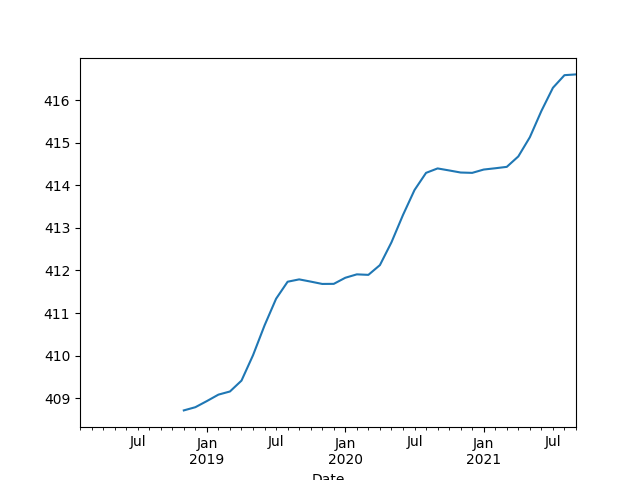
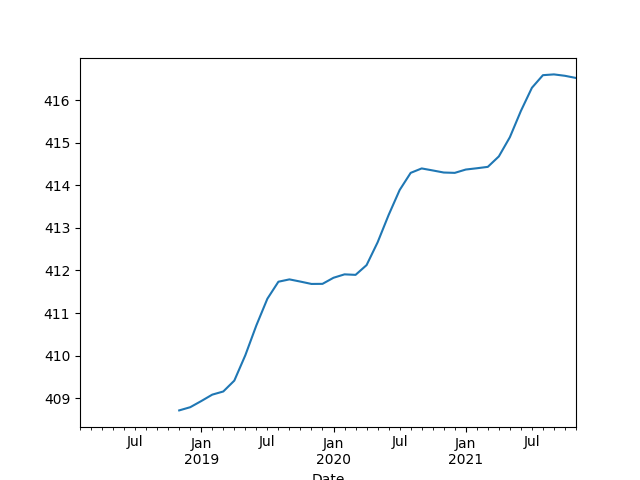
-

diff --git a/en/README.md b/en/README.md
@@ -1,39 +1,103 @@
 <img src="https://drive.google.com/uc?export=view&id=1B2wf9R7AMH1d7Vw6e2mucLbIQ5NSjir7"/>
 
+Energy *can* become a non-issue. It can be done.
 
-<iframe width="340" src="https://www.youtube.com/embed/xs4ypRAPc-c" title="YouTube video player" frameborder="0" allow="accelerometer; autoplay; clipboard-write; encrypted-media; gyroscope; picture-in-picture" allowfullscreen></iframe>
+"Hydrogen has always been the answer to our energy needs. However, the
+configuration of global politics post WW1, which was won by oil and
+coal supremacy, was always going to be a tough nut to crack...
 
----
-
-I'd replace AI with crude intelligence, automation, ML in the title, rest is fine
-
-<iframe width="340" src="https://www.youtube.com/embed/lXuQKoQCtOc" title="YouTube video player" frameborder="0" allow="accelerometer; autoplay; clipboard-write; encrypted-media; gyroscope; picture-in-picture" allowfullscreen></iframe>
-
----
-
-"@SDonziger
-
-BREAKING: Danbury prison officials released me this morning to serve
-the rest of my sentence (136 days) at home. Huge step forward"
+With hydrogen, we can now take energy “off the table” as a source of
+so many historic ills, and we can do it far more rapidly than has been
+suggested"
 
 ---
 
-"@greg_price11
-
-I was just on my way to Subway and was confronted by two men holding
-chocolate chocolate chip ice cream cones. They recognized me from
-Twitter, punched me in the face, and said "this is Build Back Better
-country."
-
-I'm crying and vomiting everywhere"
+H2 View: "Australia has started trials for a hydrogen *Guarantee of
+Origin* scheme that aims to add value for all types of hydrogen with
+specification on how the hydrogen was sourced to allow customers to
+know how clean it is"
 
 ---
 
-"@eikeklapper
+H2 View: "Australia has seen significant progress within its hydrogen
+sector and has now been recognised as a ‘world leader’ in hydrogen
+technologies in the State of Hydrogen report...
 
-Transition of power. German style"
+This expansion of the hydrogen sector will continue to expand with the
+Government launching significant funding opportunities for the sector
+[as seen in] the $464m Clean Hydrogen Industrial Hubs programme that
+has already seen benefits with hubs being announced across the nation"
 
-[[-]](https://twitter.com/eikeklapper/status/1469315734786527232)
+[[-]](https://www.h2-view.com/story/australia-recognised-as-world-leader-in-clean-and-affordable-hydrogen-production-says-report)
+
+---
+
+H2 View: "Sweden receives unique investment to develop a 24-station
+strong hydrogen refuelling structure by 2025"
+
+---
+
+November atmo carbon levels - 0.45% YoY increase. Average increase for
+every month since the 60s has been 0.44%. On track toward hell.
+
+[[-]](2015/08/temp-increase.md#carbonyoy)
+
+---
+
+"@tcql
+
+Looking at benefits for potential next job and I still just cannot
+fathom anybody who would fight to keep the US healthcare
+system. Insurance is a fucking nightmare and is *designed* at every
+turn to frustrate, confuse, and deny help"
+
+---
+
+"@latimes
+
+Leaked hospital records reveal huge, automated markups for healthcare
+A former nurse at Scripps Memorial Hospital showed columnist David
+Lazarus screenshots of the facility’s electronic health record
+system. The screenshots show price hikes ranging from 575% to 675%
+being automatically generated by the hospital’s software"
+
+[[-]](https://twitter.com/i/events/1469421433021419525)
+
+---
+
+Nov Inflation
+
+```
+2021-11-01  6.809003
+```
+
+---
+
+Never Tango with an Eskimo. That is a song.
+
+---
+
+I see.. Iglos have good insulation, the rest is body heat. That's it.
+
+They are not a problem. 
+
+---
+
+How do the Eskimo get heating..?
+
+---
+
+Yep. Confirms an earlier obs, this fact jumps out at you looking at
+the emission graph. Heating is the worst polluter, first bcz of its
+energy requirements (which are not 100% green) and through unorthodox
+methods of generating heat IMO in the developing world.. I cant blame
+them, the alternative wld be freezing to death.
+
+US EPA: "Recent data suggest that space heating accounts for about 42
+percent of energy use in U.S. residences and about 36 percent of
+energy use in U.S. commercial buildings"
+
+[[-]](https://www.epa.gov/rhc/renewable-space-heating)
 
 ---
 

diff --git a/en/tweets/2021/week49.md b/en/tweets/2021/week49.md
@@ -1,4 +1,42 @@
 
+
+
+<iframe width="340" src="https://www.youtube.com/embed/xs4ypRAPc-c" title="YouTube video player" frameborder="0" allow="accelerometer; autoplay; clipboard-write; encrypted-media; gyroscope; picture-in-picture" allowfullscreen></iframe>
+
+---
+
+I'd replace AI with crude intelligence, automation, ML in the title, rest is fine
+
+<iframe width="340" src="https://www.youtube.com/embed/lXuQKoQCtOc" title="YouTube video player" frameborder="0" allow="accelerometer; autoplay; clipboard-write; encrypted-media; gyroscope; picture-in-picture" allowfullscreen></iframe>
+
+---
+
+"@SDonziger
+
+BREAKING: Danbury prison officials released me this morning to serve
+the rest of my sentence (136 days) at home. Huge step forward"
+
+---
+
+"@greg_price11
+
+I was just on my way to Subway and was confronted by two men holding
+chocolate chocolate chip ice cream cones. They recognized me from
+Twitter, punched me in the face, and said "this is Build Back Better
+country."
+
+I'm crying and vomiting everywhere"
+
+---
+
+"@eikeklapper
+
+Transition of power. German style"
+
+[[-]](https://twitter.com/eikeklapper/status/1469315734786527232)
+
+---
+
 H2 Fuel News: "Aramco and Gaussin partner up for hydrogen
 vehicles... The companies are aiming to create a manufacturing
 facility located in Saudi Arabia"

diff --git a/en/2015/08/temp-increase.md b/en/2015/08/temp-increase.md
@@ -233,7 +233,7 @@ df = pd.read_csv(file,comment='#',header=None,sep='\s*')
 ```
 
 ```python
-df['Date'] = df.apply(lambda x: str(x[0]) + "-" + str(x[1]) + "-1", axis=1)
+df['Date'] = df.apply(lambda x: str(int(x[0])) + "-" + str(int(x[1])) + "-1", axis=1)
 df['Date'] = pd.to_datetime(df.Date)
 df['ppm'] = df[3]
 df = df.set_index('Date')
@@ -246,13 +246,42 @@ plt.savefig('carbon2.png')
 
 ```text
 Date
-2021-05-01    419.13
-2021-06-01    418.94
 2021-07-01    416.96
 2021-08-01    414.47
 2021-09-01    413.30
+2021-10-01    413.93
+2021-11-01    415.01
 Name: ppm, dtype: float64
 ```
+
+<a name='carbonyoy'/>
+
+Monthly Carbon YoY Increase
+
+```python
+df['ppmyoy'] = (df.ppm - df.ppm.shift(12)) / df.ppm.shift(12) * 100.0
+print (df['ppmyoy'].dropna().head(4))
+print (df['ppmyoy'].tail(4))
+print (df['ppmyoy'].dropna().mean())
+```
+
+```text
+Date
+1959-03-01    0.300919
+1959-04-01    0.085053
+1959-05-01    0.245662
+1959-06-01    0.286849
+Name: ppmyoy, dtype: float64
+Date
+2021-08-01    0.409419
+2021-09-01    0.432543
+2021-10-01    0.588078
+2021-11-01    0.457494
+Name: ppmyoy, dtype: float64
+0.44348788319687965
+```
+
+
 
 ![](carbon.png)
 

diff --git a/en/2020/04/turks-culture-national-narrative.md b/en/2020/04/turks-culture-national-narrative.md
@@ -57,6 +57,8 @@ relations the particular word's standing wasn't that hot either, the
 ethnic label could even be considered a slur, no more than 100 years
 ago.
 
+<a name='estagfurullah'/>
+
 Best account of this comes from an officer in the Ottoman army. At the
 last days of the empire the new nationalism was circulating among the
 cadres, and he wanted to check how much the regular soldiers knew of
